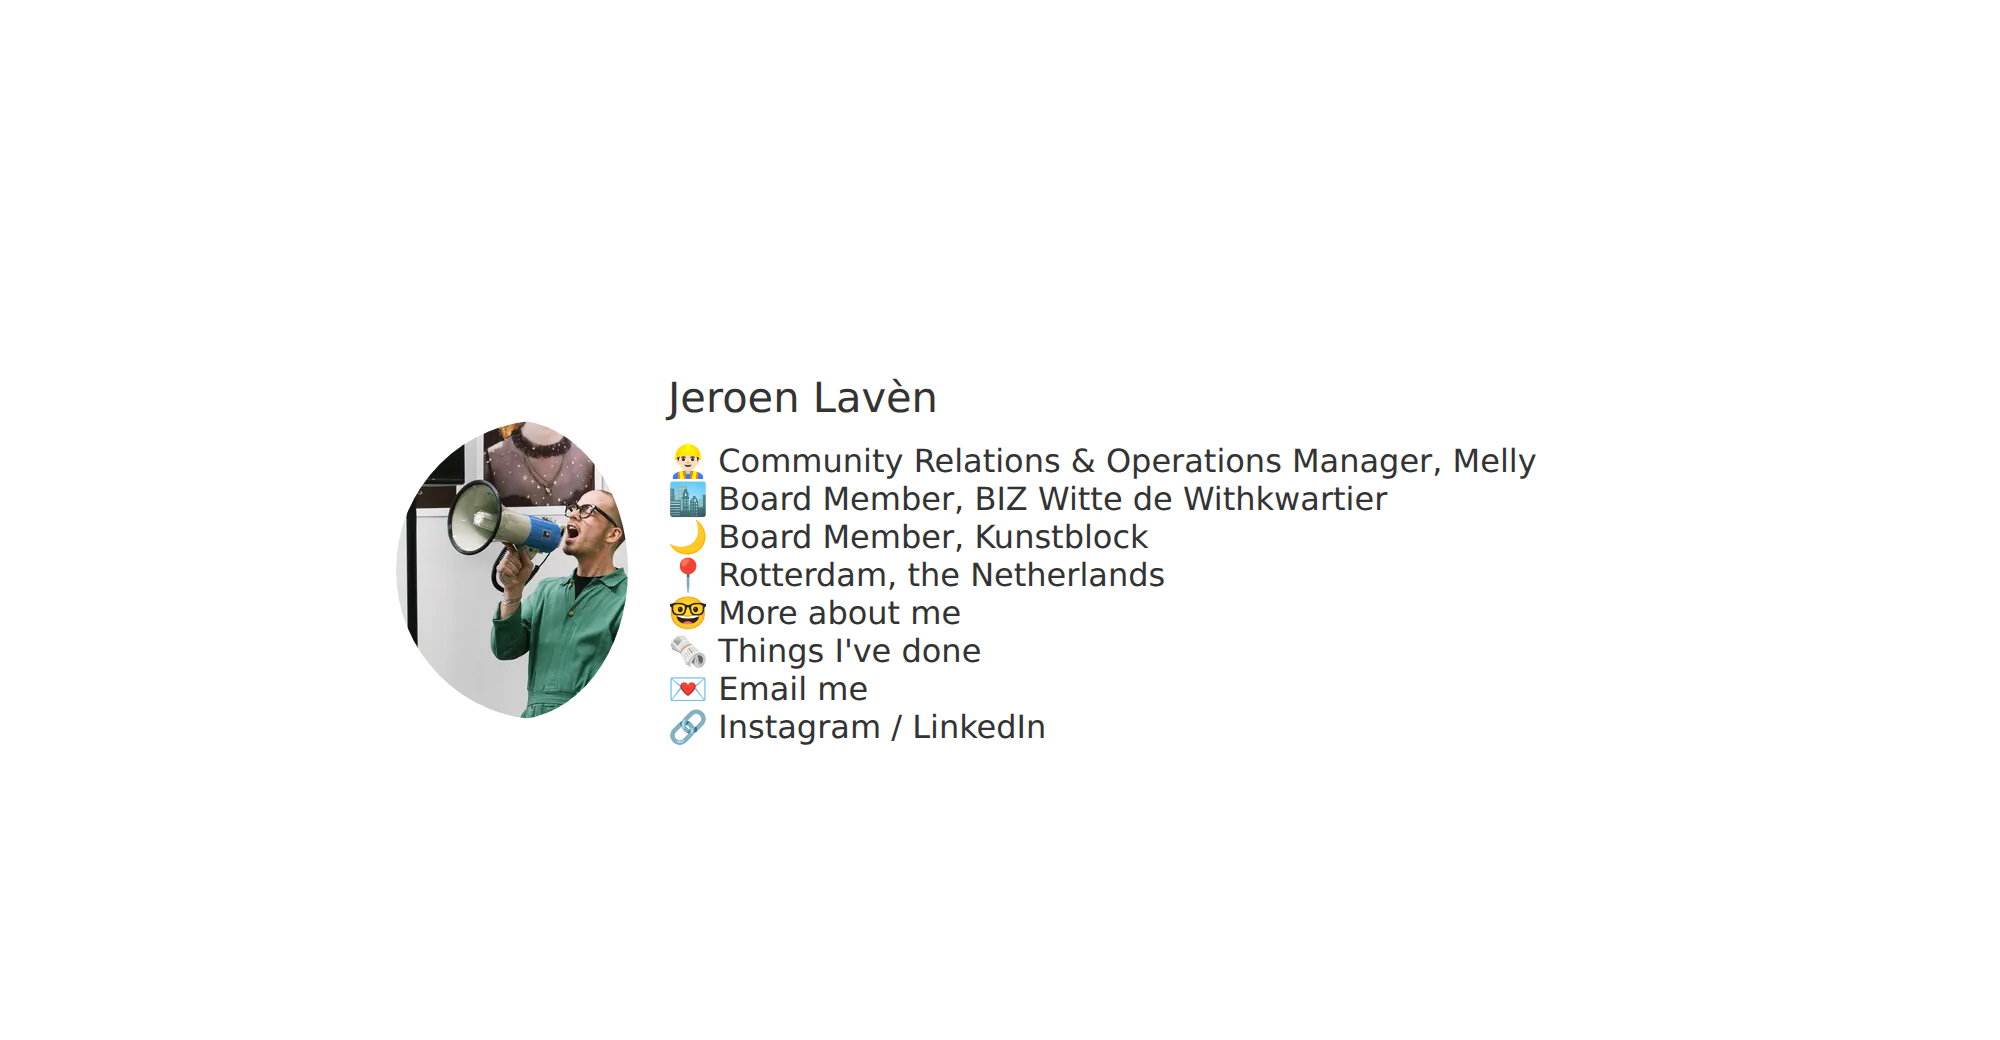
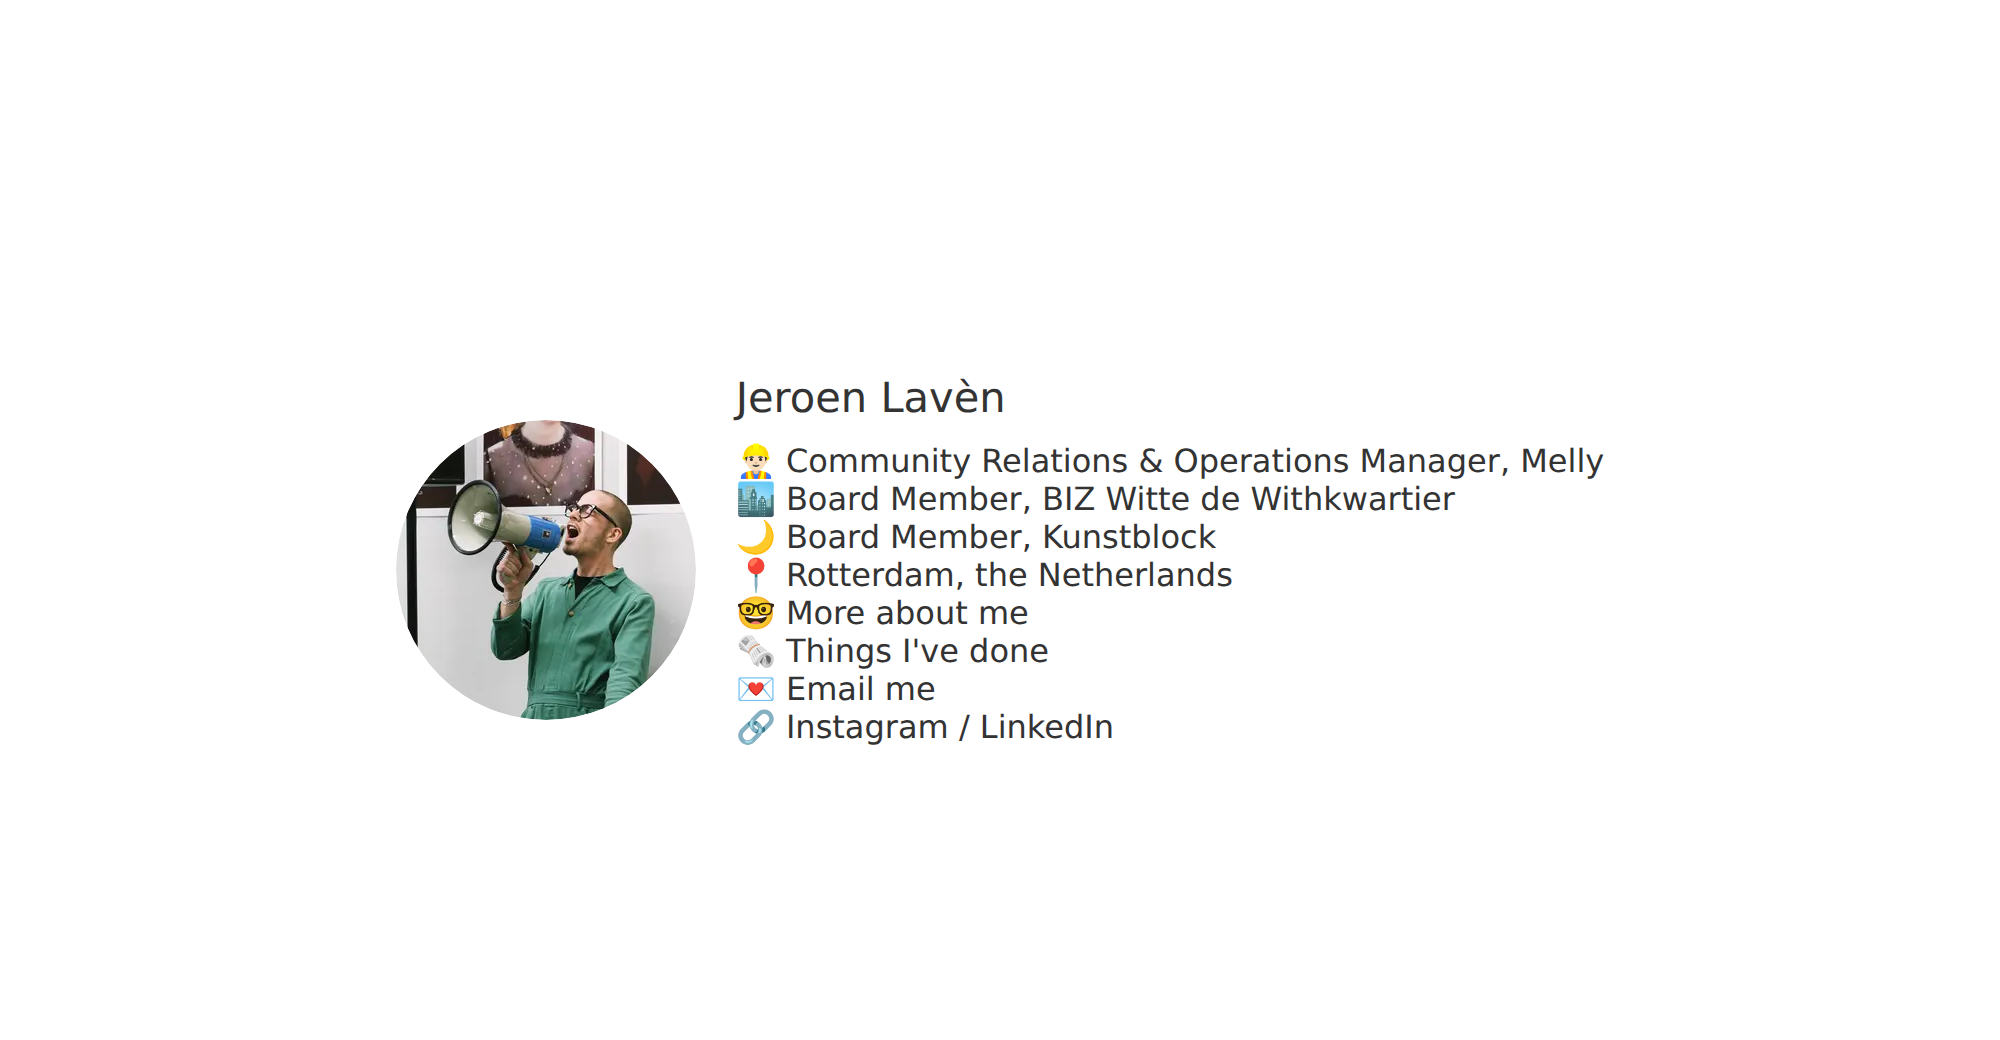
Keep the profile photo round next to the text
On wider screens the photo button could shrink in the row layout, and
its circular clip then cut the photo into an oval. Stop it shrinking and
refresh the README screenshots.

Claude-Session: https://claude.ai/code/session_01HC42MtestLoGtewPBuYLHH

Changed region(s): [[0.279, 0.4, 0.806, 0.7077], [0.341, 0.3692, 0.496, 0.4]]

diff --git a/index.html b/index.html
@@ -18,7 +18,7 @@
     <meta property="og:image:alt" content="Portrait of Jeroen Lavèn">
     <meta name="twitter:card" content="summary">
 
-    <link rel="stylesheet" href="style.css?v=7"> <!-- Bump ?v= after editing style.css so browsers reload it -->
+    <link rel="stylesheet" href="style.css?v=8"> <!-- Bump ?v= after editing style.css so browsers reload it -->
     <link rel="apple-touch-icon" sizes="180x180" href="apple-touch-icon.png">
     <link rel="icon" type="image/png" sizes="32x32" href="favicon-32x32.png">
     <link rel="icon" type="image/png" sizes="16x16" href="favicon-16x16.png">

diff --git a/style.css b/style.css
@@ -65,6 +65,7 @@ h1 {
     -webkit-tap-highlight-color: transparent; /* No grey square on tap in iOS */
     border-radius: 50%;
     overflow: hidden; /* Clip anything square to the circle */
+    flex-shrink: 0; /* Never let long text squeeze the photo into an oval */
     line-height: 0;
     margin-right: 20px;
     cursor: pointer;
